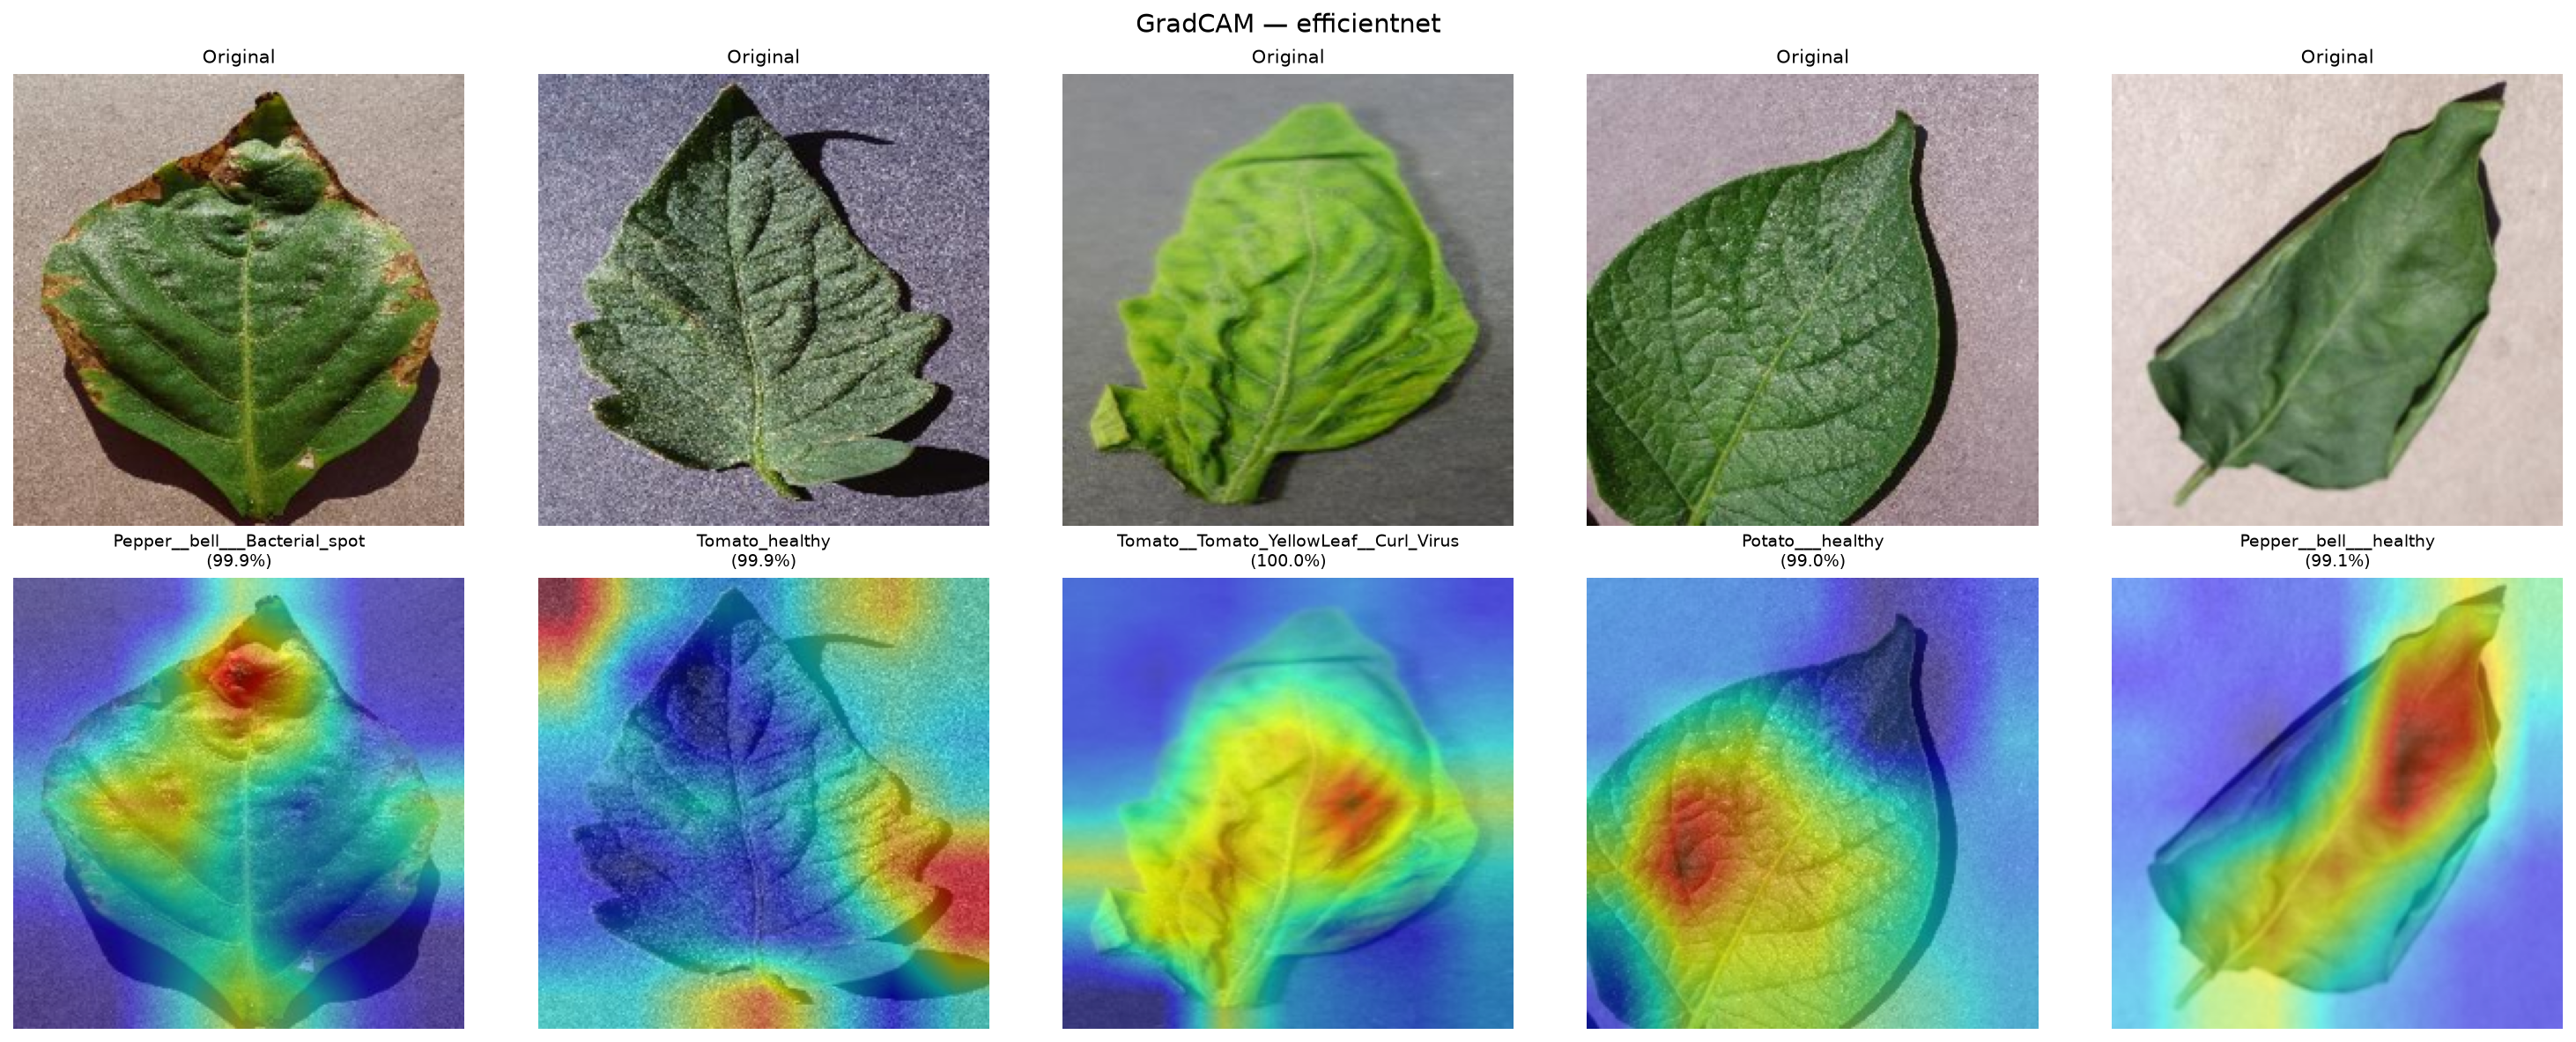
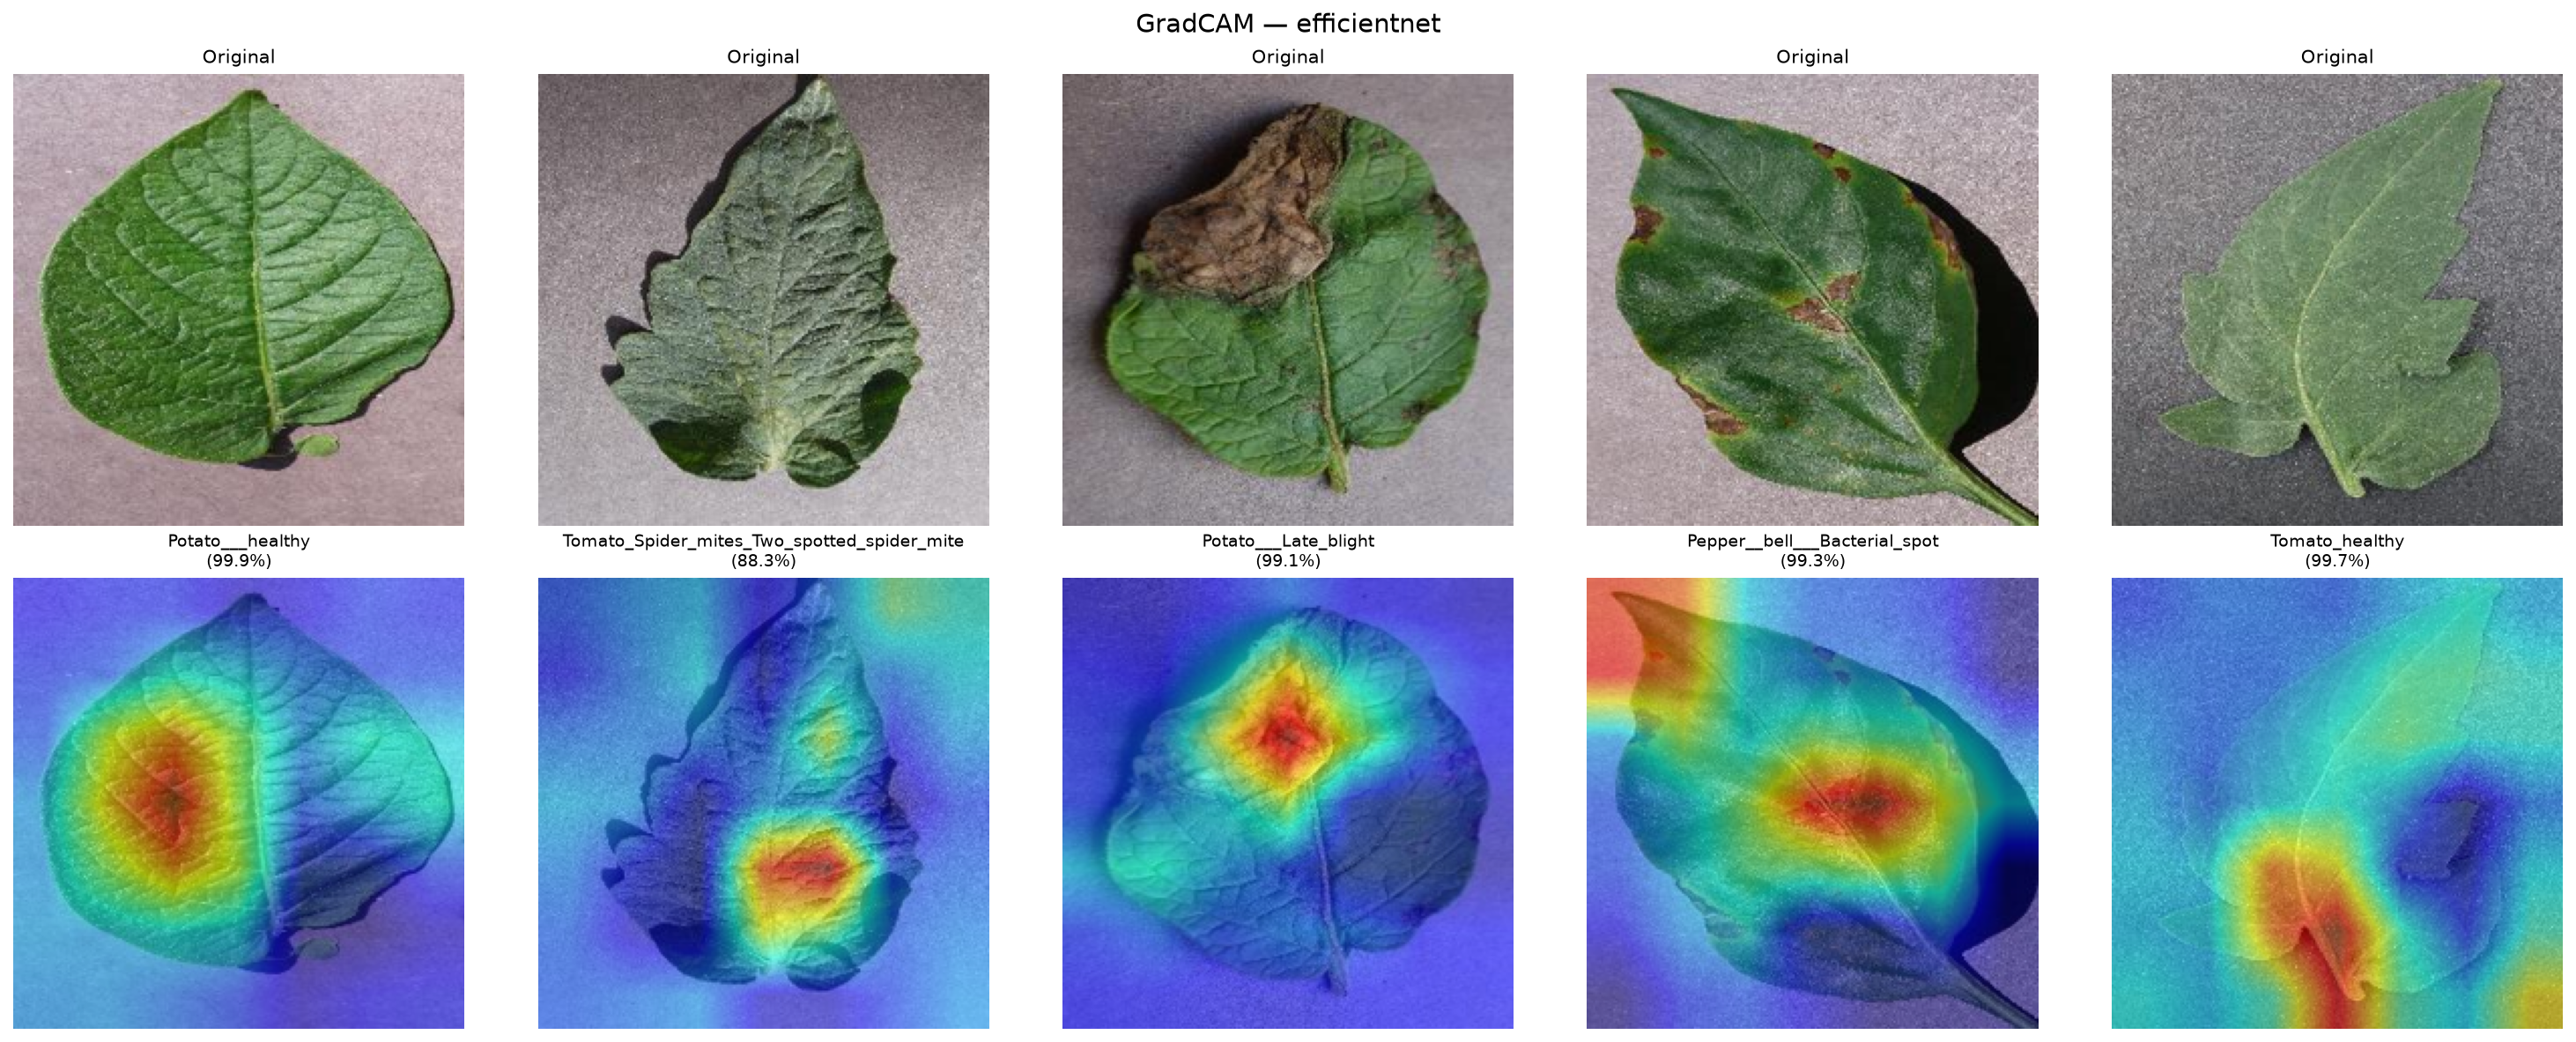
Fixing bugs and updating Readme

diff --git a/README.md b/README.md
@@ -1,6 +1,6 @@
 # 🌿 Crop Disease Detector
 
-Fine-tuned **ResNet18** and **EfficientNet-B0** for multi-class crop disease classification, trained on the [PlantVillage](https://www.kaggle.com/datasets/emmarex/plantdisease) dataset — **15 classes** across tomato, potato, and pepper plants. Features a complete transfer-learning pipeline with MLflow experiment tracking, model comparison, GradCAM explainability, and a live Gradio demo with **real-time Grad-CAM heatmaps**.
+Fine-tuned **ResNet18** and **EfficientNet-B0** for multi-class crop disease classification, trained on the [PlantVillage](https://www.kaggle.com/datasets/snikhilrao/crop-disease-detection-dataset) dataset — **15 classes** across tomato, potato, and pepper plants. Features a complete transfer-learning pipeline with MLflow experiment tracking, model comparison, GradCAM explainability, and a live Gradio demo with **real-time Grad-CAM heatmaps**.
 
 **[Live Demo](https://huggingface.co/spaces/Naman225/crop-disease-detector)** · **[Dataset](https://www.kaggle.com/datasets/emmarex/plantdisease)**
 
@@ -24,18 +24,18 @@ Two architectures, each trained in two phases — frozen backbone (feature extra
 ### Model Comparison
 
 | Model | Phase | Test Accuracy | Precision | Recall | F1 |
-|:---|:---|:---:|:---:|:---:|:---:|
+|---|---|:---:|:---:|:---:|:---:|
 | ResNet18 | Phase 1 — Frozen backbone | 90.82% | 91.44% | 90.82% | 90.94% |
 | ResNet18 | Phase 2 — Fine-tuned (`layer4`) | **99.13%** | **99.13%** | **99.13%** | **99.12%** |
 | EfficientNet-B0 | Phase 1 — Frozen backbone | 93.73% | 93.99% | 93.73% | 93.69% |
 | EfficientNet-B0 | Phase 2 — Fine-tuned (last block) | 96.36% | 96.48% | 96.36% | 96.35% |
 
-> **ResNet18 (fine-tuned)** was selected as the primary model for deployment based on highest test accuracy (99.13%), with EfficientNet-B0 available as a comparison in the live demo.
+> **ResNet18 (fine-tuned)** was selected as the primary model for deployment based on highest test accuracy (99.13%), with EfficientNet-B0 available as a live comparison in the demo.
 
 ### Per-Class Metrics — ResNet18 (Fine-Tuned)
 
 | Class | Precision | Recall | F1-Score | Support |
-|:---|:---:|:---:|:---:|:---:|
+|---|:---:|:---:|:---:|:---:|
 | Bell Pepper — Bacterial Spot | 100.0% | 100.0% | 100.0% | 99 |
 | Bell Pepper — Healthy | 100.0% | 100.0% | 100.0% | 147 |
 | Potato — Early Blight | 100.0% | 100.0% | 100.0% | 100 |
@@ -56,7 +56,7 @@ Two architectures, each trained in two phases — frozen backbone (feature extra
 ### Per-Class Metrics — EfficientNet-B0 (Fine-Tuned)
 
 | Class | Precision | Recall | F1-Score | Support |
-|:---|:---:|:---:|:---:|:---:|
+|---|:---:|:---:|:---:|:---:|
 | Bell Pepper — Bacterial Spot | 100.0% | 100.0% | 100.0% | 99 |
 | Bell Pepper — Healthy | 98.65% | 99.32% | 98.98% | 147 |
 | Potato — Early Blight | 99.00% | 99.00% | 99.00% | 100 |
@@ -77,7 +77,7 @@ Two architectures, each trained in two phases — frozen backbone (feature extra
 ### Confusion Matrices
 
 | ResNet18 (Fine-Tuned) | EfficientNet-B0 (Fine-Tuned) |
-|:---:|:---:|
+|---|---|
 | ![ResNet18 confusion matrix](artifacts/metrics/resnet18_confusion_matrix.png) | ![EfficientNet confusion matrix](artifacts/metrics/efficientnet_confusion_matrix.png) |
 
 Both models show a strong diagonal with minimal cross-class confusion. The weakest-performing class across both models is **Tomato — Early Blight**, which is most often confused with **Tomato — Late Blight** — the two diseases are visually similar in early stages, even to a trained eye.
@@ -94,21 +94,24 @@ GradCAM is integrated at **two levels**:
 ### Offline GradCAM Grids
 
 | ResNet18 | EfficientNet-B0 |
-|:---:|:---:|
+|---|---|
 | ![ResNet18 GradCAM](artifacts/metrics/gradcam_resnet18.png) | ![EfficientNet GradCAM](artifacts/metrics/gradcam_efficient_net.png) |
 
-**Finding:** Both models attend broadly to overall leaf shape, color, and vein structure rather than precisely localizing disease lesions. This is consistent with a known limitation of PlantVillage — a lab-controlled dataset with clean, isolated leaf images on plain backgrounds. Models trained on it can reach very high accuracy by learning general leaf appearance patterns rather than fine-grained symptom localization.
+**Finding:** both models attend broadly to overall leaf shape, color, and vein structure rather than precisely localizing disease lesions. This is consistent with a known limitation of PlantVillage — a lab-controlled dataset with clean, isolated leaf images on plain backgrounds. Models trained on it can reach very high accuracy by learning general leaf appearance patterns rather than fine-grained symptom localization, since background and photography conditions are consistent within each class. This means the reported test accuracy, while methodologically valid (the test set was never touched during training or tuning), may not fully reflect real-world performance on field-captured images with cluttered backgrounds or varied lighting.
 
-### Live Grad-CAM in Gradio
+### Live GradCAM in Gradio
 
-The Gradio demo generates a **per-prediction GradCAM heatmap** using the `pytorch-grad-cam` library, targeting:
+The deployed app generates a **per-prediction GradCAM heatmap** using the `pytorch-grad-cam` library, targeting:
+
 - **ResNet18** → `layer4` (final residual block)
 - **EfficientNet-B0** → `features[-1]` (final convolutional block)
 
 Each prediction returns:
 - Top-3 class probabilities
-- Grad-CAM heatmap overlay
-- Disease diagnosis with treatment recommendation
+- GradCAM heatmap overlay on the actual uploaded image (not a static example)
+- Disease diagnosis with a plain-language treatment recommendation
+
+This was a deliberate design choice — a static explainability report is useful for documentation, but a live, per-prediction heatmap is what actually builds (or breaks) user trust in a real diagnostic tool, since it lets anyone immediately sanity-check whether the model is focusing on the diseased region of *their specific* leaf.
 
 ---
 
@@ -117,13 +120,15 @@ Each prediction returns:
 ```
 crop-disease-detector/
 ├── app/                              # Deployment — lightweight Gradio interface
-│   ├── app.py                        # Gradio UI with image upload, model selection, Grad-CAM output
-│   ├── inference.py                  # Model loading, prediction logic, live Grad-CAM generation
-│   ├── examples/                     # Sample leaf images for the demo
+│   ├── app.py                        # Gradio UI with image upload, model selection, GradCAM output
+│   ├── inference.py                  # Model loading, prediction logic, disease info mapping
+│   ├── grad_cam.py                   # Live single-image GradCAM generation for the deployed app
+│   ├── examples/                     # Sample leaf images for one-click demo testing
 │   │   ├── tomato_blight.jpg
 │   │   ├── potato_healthy.jpg
 │   │   └── pepper_bacterial_spot.jpg
-│   └── requirements.txt              # Deployment dependencies (torch, gradio, grad-cam)
+│   └── requirements.txt              # Deployment dependencies (torch, gradio, grad-cam) — separate
+│                                      # from the training environment for a smaller, faster build
 │
 ├── artifacts/
 │   ├── metrics/                      # Confusion matrices, classification reports, GradCAM grids
@@ -135,10 +140,10 @@ crop-disease-detector/
 │   │   ├── gradcam_efficient_net.png
 │   │   └── model_comparison.json
 │   └── models/                       # Saved model checkpoints (.pth)
-│       ├── resnet18_phase1_best.pth
-│       ├── resnet18_phase2_best.pth
-│       ├── efficientnet_phase1_best.pth
-│       └── efficientnet_phase2_best.pth
+│       ├── resnet18_best.pth            # Phase 1 (frozen backbone)
+│       ├── resnet18_phase2_best.pth     # Phase 2 (fine-tuned) — used in deployment
+│       ├── efficientnet_best.pth        # Phase 1 (frozen backbone)
+│       └── efficientnet_phase2_best.pth # Phase 2 (fine-tuned)
 │
 ├── models/
 │   ├── resnet.py                     # ResNet18 architecture + freeze/unfreeze logic
@@ -150,7 +155,7 @@ crop-disease-detector/
 │   │   ├── dataset.py                # Transforms, splits (splitfolders), WeightedRandomSampler
 │   │   ├── train.py                  # Training loop with MLflow logging + checkpoint saving
 │   │   ├── evaluate.py               # Test metrics, confusion matrix, classification report
-│   │   ├── grad_cam.py               # GradCAM grid generation + single-image inference helper
+│   │   ├── grad_cam.py               # GradCAM grid generation for offline analysis
 │   │   └── orchestrator.py           # Phase 1 → Phase 2 → evaluation per model
 │   └── utils/
 │       ├── logger.py                 # Centralized logging configuration
@@ -173,14 +178,14 @@ crop-disease-detector/
 
 - **15 classes** across tomato, potato, and pepper plants (healthy + various diseases), ~20,600 images total
 - **Significant class imbalance**: `Tomato_YellowLeaf_Curl_Virus` (3,209 images) vs `Potato_healthy` (152 images) — a **21× difference**
-- Split **80/10/10** (train/val/test) using `splitfolders` with a fixed seed for reproducibility
-- **`WeightedRandomSampler`** applied to the training loader so rare classes are sampled proportionally more often
-- **Augmentation** (random flip, rotation, color jitter) applied to training data only — validation and test sets use only resize + normalize
+- Split **80/10/10** (train/val/test) using `splitfolders`, with a fixed seed for reproducibility
+- **`WeightedRandomSampler`** applied to the training loader so rare classes are sampled proportionally more often, preventing the model from ignoring minority classes
+- **Augmentation** (random flip, rotation, color jitter) applied to training data only — validation and test sets use only resize + normalize, to ensure unbiased evaluation
 
 ### Training — Two-Phase Transfer Learning
 
 | | Phase 1 — Feature Extraction | Phase 2 — Fine-Tuning |
-|:---|:---|:---|
+|---|---|---|
 | **Strategy** | Backbone frozen, only classifier head trained | Last convolutional block + classifier unfrozen |
 | **ResNet18** | All layers frozen, `fc` layer replaced | `layer4` unfrozen |
 | **EfficientNet-B0** | All layers frozen, `classifier[1]` replaced | `features[-1]` unfrozen |
@@ -198,18 +203,21 @@ All training runs — both phases, both architectures — are logged with **MLfl
 - Final test-set metrics (accuracy, precision, recall, F1, per-class F1)
 - Model artifacts and confusion matrices
 
+This allows direct comparison of all four runs (2 models × 2 phases) in one dashboard via `mlflow ui`.
+
 ### Evaluation
 
-The test set was **held out** and never used for any training decisions, augmentation tuning, or hyperparameter selection — only validation accuracy informed those choices. Test metrics were computed **exactly once** per model after training was fully complete.
+The test set was **held out** and never used for any training decisions, augmentation tuning, or hyperparameter selection — only validation accuracy informed those choices. Test metrics were computed **exactly once** per model, after training was fully complete.
 
 ---
 
 ## ⚠️ Limitations & Honest Caveats
 
-- **Lab-controlled dataset** — PlantVillage images have clean, consistent backgrounds. Real-world deployment would likely see lower accuracy due to lighting variation, cluttered backgrounds, and partial/occluded leaves
-- **GradCAM suggests reliance on overall leaf appearance** rather than precise lesion localization — a meaningful caveat despite the high accuracy numbers
-- **Class imbalance partially mitigated, not eliminated** — `Potato_healthy` still has the smallest support (15 images) in the test set, so its metrics, while strong, are based on a small sample
-- This project should be treated as a **proof of concept**, not a field-ready diagnostic tool
+- **Lab-controlled dataset** — PlantVillage images have clean, consistent backgrounds. Real-world deployment (e.g. a farmer photographing a leaf in a field) would likely see lower accuracy due to lighting variation, cluttered backgrounds, and partial/occluded leaves.
+- **GradCAM suggests reliance on overall leaf appearance** rather than precise lesion localization — a meaningful caveat despite the high accuracy numbers.
+- **Class imbalance partially mitigated, not eliminated** — `Potato_healthy` still has the smallest support (15 images) in the test set, so its metrics, while strong, are based on a small sample.
+- **Tomato Early Blight vs. Late Blight remains genuinely difficult** for both models — reflecting real visual similarity between the two diseases rather than a model defect.
+- This project should be treated as a **proof of concept**, not a field-ready diagnostic tool. The disease recommendations are general guidance, not a substitute for agricultural expert consultation.
 
 ---
 
@@ -219,7 +227,7 @@ The test set was **held out** and never used for any training decisions, augment
 - Experiment with **focal loss** as an alternative to weighted sampling for class imbalance
 - Add **hyperparameter tuning** (Optuna) for both phases
 - **Quantize models** for faster mobile/edge inference
-- Add **Grad-CAM comparison view** showing both models' attention side-by-side
+- Add a **side-by-side GradCAM comparison view** in the demo showing both models' attention at once
 
 ---
 
@@ -228,14 +236,10 @@ The test set was **held out** and never used for any training decisions, augment
 ### Training Pipeline
 
 ```bash
-# Clone the repository
 git clone https://github.com/Naman225/crop-disease-detector.git
 cd crop-disease-detector
 
-# Install training dependencies
 pip install -r requirements.txt
-
-# Run the full pipeline (both models, both phases)
 python main.py
 ```
 
@@ -255,17 +259,26 @@ python run_grad_cam.py
 ### Run the Gradio Demo Locally
 
 ```bash
-pip install -r app/requirements.txt
-python -m app.app
+cd app
+pip install -r requirements.txt
+python app.py
 # Open http://localhost:7860
 ```
+
+---
+
+## 🚢 Deployment
+
+Deployed on **Hugging Face Spaces** using the Gradio SDK. The app loads both fine-tuned models once at startup (not per-request) for fast inference, and generates GradCAM explanations on-demand for each uploaded image.
+
+⚠️ Free-tier Spaces sleep after inactivity — the first request after idle time may take 30–60 seconds while the Space wakes up.
 
 ---
 
 ## 🛠️ Tech Stack
 
 | Category | Tools |
-|:---|:---|
+|---|---|
 | Deep Learning | PyTorch, torchvision |
 | Architectures | ResNet18, EfficientNet-B0 (ImageNet pretrained) |
 | Experiment Tracking | MLflow |